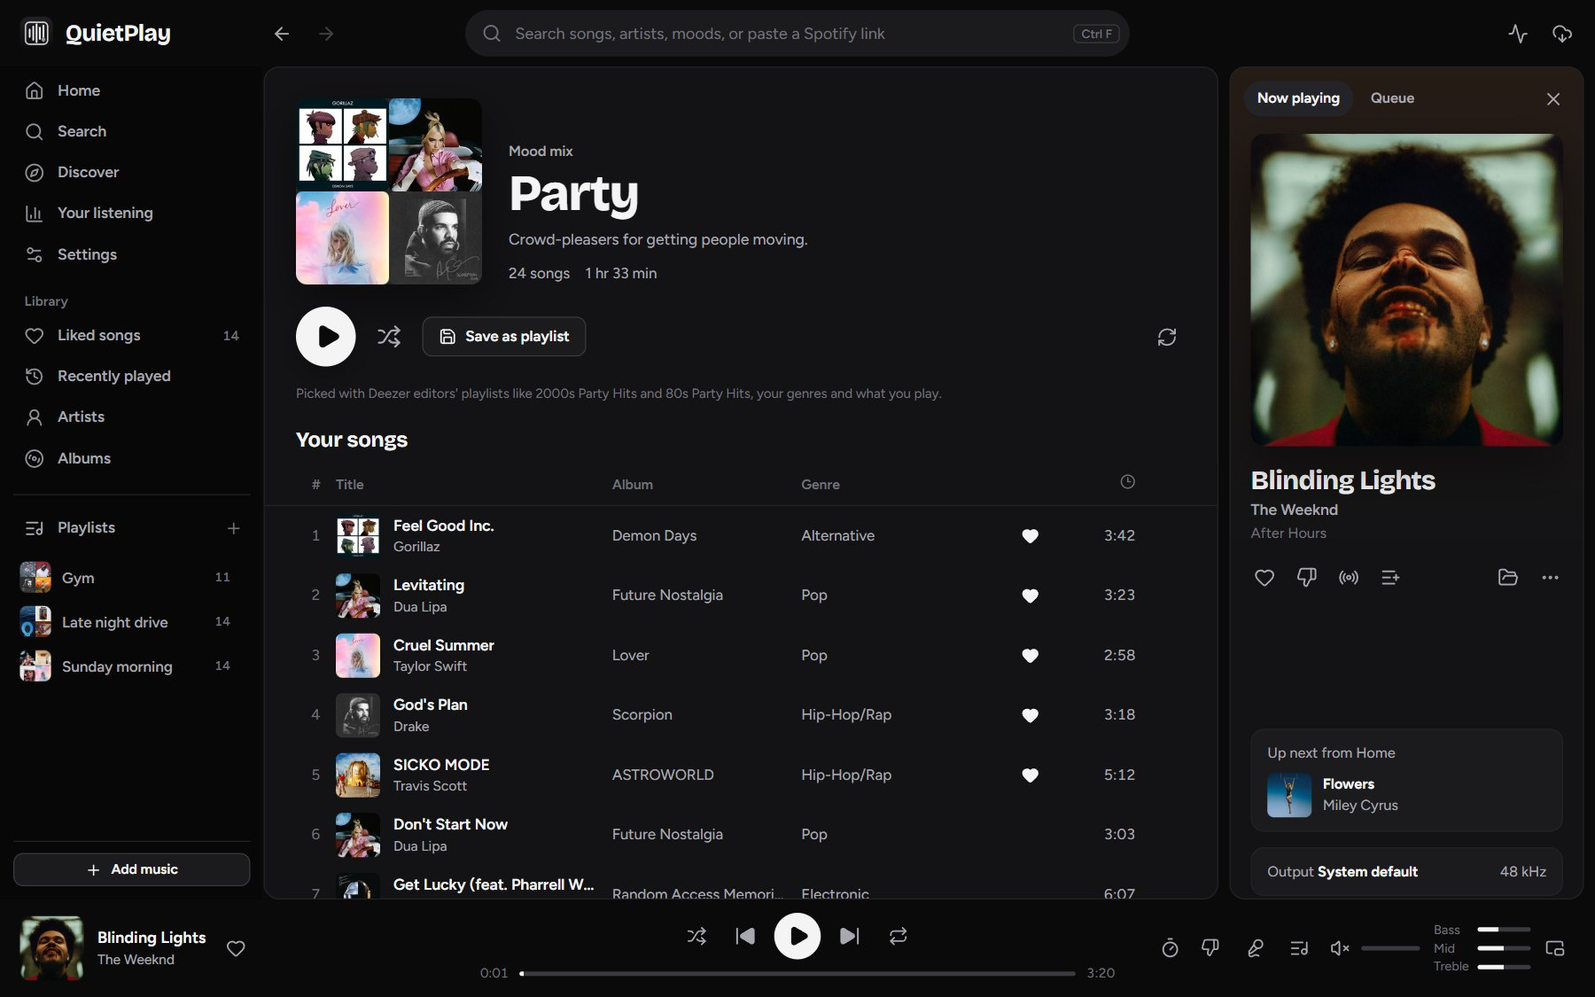
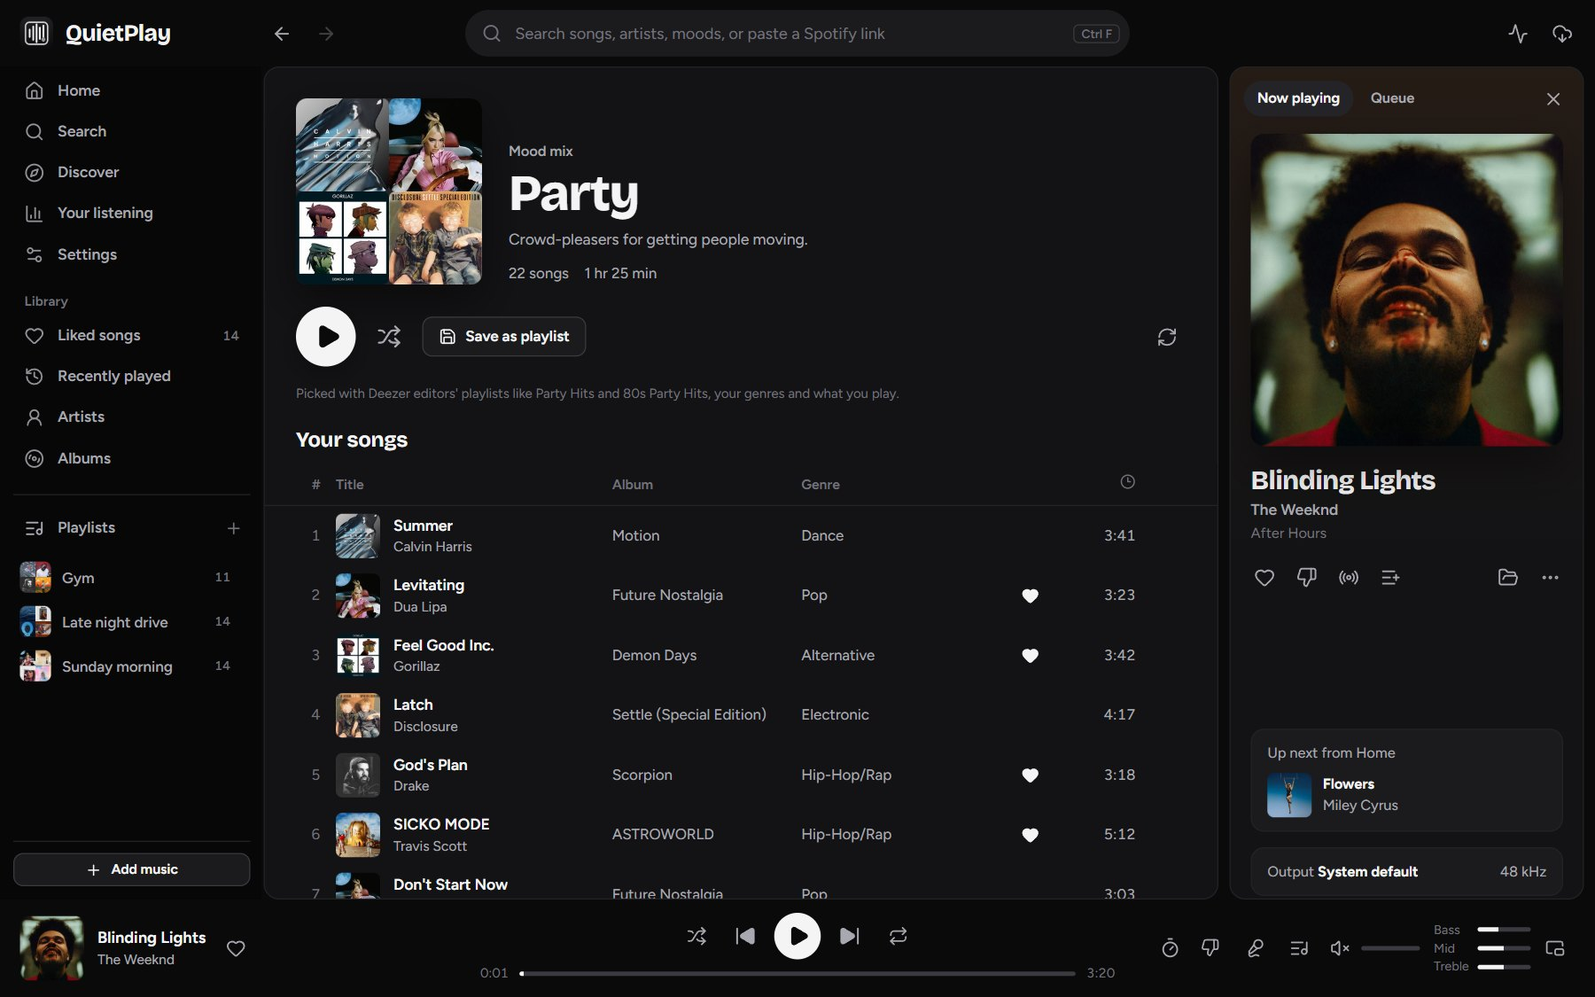
QuietPlay 2.2.22: taste from other apps, more recommendations

diff --git a/USER_GUIDE.md b/USER_GUIDE.md
@@ -2,14 +2,14 @@
 
 [QuietPlay](README.md) | [FAQ](FAQ.md) | [Downloads](https://github.com/cooperwwwwww/QuietPlay-downloads/releases)
 
-This guide is for **QuietPlay 2.2.21** on Windows. Sections marked in development
+This guide is for **QuietPlay 2.2.22** on Windows. Sections marked in development
 describe upcoming features, not the current download.
 
 ## Jump to a Topic
 
 [Install and open](#install-and-open) · [Your data](#your-data-on-this-pc) ·
 [Add music](#add-existing-music) · [Find and play](#find-and-play) ·
-[Discover and radio](#discover-radio-and-autoplay) · [Your listening](#your-listening) ·
+[Discover and radio](#discover-radio-and-autoplay) · [Taste from other apps](#bring-your-taste-from-other-apps) · [Your listening](#your-listening) ·
 [Playlists](#playlists) · [Library care](#library-care) · [Lyrics](#lyrics) ·
 [Search and download](#search-and-download-music) · [Navidrome](#navidrome-add-on) · [Audio and mini player](#audio-and-mini-player) ·
 [OBS](#obs) · [Settings](#settings) · [Shortcuts](#keyboard-shortcuts) · [Updates and help](#updates-and-help)
@@ -64,7 +64,7 @@ Untagged files named like `Artist - Title.mp3` are read as artist and title.
 
 - **Home** starts with **Made for you**: pick **Mixes** (local mixes you can
   play straight away), **New songs** or **Playlists** with the tabs next to the
-  title. Mixes show in two or three rows; use the left/right arrows to see more.
+  title. Each tab shows three rows that fill the window; use the left/right arrows to see more.
   QuietPlay remembers the tab.
   Click a recommended song to preview it, or use its download button. Open a
   recommended playlist to see every song, preview, download a song, or
@@ -153,6 +153,33 @@ normally refresh after six hours. Existing owned-song, dislike and dismissed
 recommendation filters still apply. Turn off **Suggest new songs** in
 Settings → Search & Downloads to disable online recommendations.
 
+### Bring Your Taste From Other Apps
+
+From **2.2.22**, QuietPlay can learn what you like in another music app, the way Spotify's
+"Import your music" does. It only shapes recommendations: **nothing is downloaded, no playlists are
+created, and QuietPlay never asks for your passwords.**
+
+1. Open **Settings → Playback → Listening and recommendations** and choose **Choose an app**.
+2. Pick the app you listen with, then follow the steps QuietPlay shows for it:
+
+| App | Quickest | Everything |
+| --- | --- | --- |
+| Spotify | Paste a public playlist link (**Share → Copy link to playlist**) | Export with [exportify.net](https://exportify.net) (**Export All**), or **Account → Privacy settings → Download your data** with **Extended streaming history** |
+| Apple Music | Paste a playlist link (**Share → Copy Link**) | **File → Library → Export Library…** (Mac Music app or iTunes on Windows), or your data from [privacy.apple.com](https://privacy.apple.com) |
+| YouTube Music | | [Google Takeout](https://takeout.google.com): YouTube and YouTube Music, history as JSON |
+| Deezer | Paste a public playlist link | A TuneMyMusic export file |
+| Tidal, Amazon Music, SoundCloud | | [TuneMyMusic](https://www.tunemymusic.com): your app as the source, **Export to file** |
+| Last.fm (and apps that scrobble to it) | | Your scrobbles as CSV from [lastfm.ghan.nl/export](https://lastfm.ghan.nl/export/) |
+| Something else | Type artists, or songs as `Artist - Title` | Any .csv, .txt, .m3u or .xspf playlist |
+
+3. QuietPlay shows how many artists, songs and plays it found and your top artists. Choose
+   **Add to my taste**.
+
+Liked songs and songs you played often count more. Your imported artists join the artists you play
+in QuietPlay, so you'll see them in **Because you play…** playlists and in new songs from related
+artists. Each source is listed in Settings with **Remove**. Export files are read on your PC; only
+the names of the songs and artists are kept.
+
 ## Your Listening
 
 **Your listening** in the sidebar shows listening time, plays, how many songs
@@ -210,7 +237,9 @@ online. The next song's lyrics are fetched ahead of time.
 
 Online search is optional (Settings → Search & Downloads). Online results show
 a **Download** button; downloads go to `Music\QuietPlay Downloads` and are added
-to your library and, if you choose, a playlist. The download panel (cloud icon
+to your library and, if you choose, a playlist. From 2.2.22, songs you already have show
+**In your library** instead (click to play) and are never downloaded again, also not as part of
+**Download all** or a recommended playlist. The download panel (cloud icon
 at the top) shows progress and lets you cancel.
 
 ### Download a Complete Playlist or Album
@@ -309,7 +338,7 @@ Showing a song title doesn't grant permission to broadcast the recording.
 ### Overlay Customization (Unreleased)
 
 The following controls are implemented in the development build and are **not
-in the current 2.2.21 installer**. The existing download still has the basic
+in the current 2.2.22 installer**. The existing download still has the basic
 overlay options in Streaming settings.
 
 Open **Settings → Streaming → Overlay appearance** in the upcoming build:
@@ -390,18 +419,18 @@ Backups are retained for the two most recent update transactions.
 The release signature is separate from Windows Authenticode; QuietPlay is still
 not Windows code-signed, and Windows security warnings and blocks still apply.
 
-### Updating to 2.2.21
+### Updating to 2.2.22
 
-Use the update screen above. From **2.2.16 to 2.2.20** the download is about **8.0 MB**,
-from **2.2.7 to 2.2.15** about **23.2 MB**, and from **2.2.2, 2.2.3 or 2.2.4** about **40.2 MB**.
+Use the update screen above. From **2.2.16 to 2.2.21** the download is about **8.1 MB**,
+from **2.2.7 to 2.2.15** about **23.3 MB**, and from **2.2.2, 2.2.3 or 2.2.4** about **40.2 MB**.
 A bar shows the check, the download, verification and, in the updater window, each file as it is installed. It reuses the unchanged runtime
 files, so no full installer is needed for a healthy installation.
 
 ### First Upgrade From an Older Version
 
-- **2.2.0:** download the official **2.2.21 Windows Setup** and run it over the
+- **2.2.0:** download the official **2.2.22 Windows Setup** and run it over the
   existing installation once. Do not uninstall first. This enables file updates.
-- **2.2.1:** download **QuietPlayUpdater.exe** from the official **2.2.21 release**,
+- **2.2.1:** download **QuietPlayUpdater.exe** from the official **2.2.22 release**,
   run it, choose **Download changed files**, then **Update and restart**. This
   transfers about 40 MB instead of the full setup. Full setup is also available.
 

diff --git a/README.md b/README.md
@@ -8,9 +8,9 @@
 
 No account. No subscription. Nothing you play leaves your computer.
 
-<a id="get-quietplay"></a><a href="https://github.com/cooperwwwwww/QuietPlay-downloads/releases/download/v2.2.21/QuietPlay-2.2.21-Windows-Setup.exe"><img src="assets/download-windows.svg" alt="Download QuietPlay 2.2.21 for Windows" width="340"></a>
+<a id="get-quietplay"></a><a href="https://github.com/cooperwwwwww/QuietPlay-downloads/releases/download/v2.2.22/QuietPlay-2.2.22-Windows-Setup.exe"><img src="assets/download-windows.svg" alt="Download QuietPlay 2.2.22 for Windows" width="340"></a>
 
-Version 2.2.21 · [What's new](#new-in-2221) · [Help](FAQ.md) · [Report a problem](https://github.com/cooperwwwwww/QuietPlay-downloads/issues/new?template=bug_report.yml)
+Version 2.2.22 · [What's new](#new-in-2222) · [Help](FAQ.md) · [Report a problem](https://github.com/cooperwwwwww/QuietPlay-downloads/issues/new?template=bug_report.yml)
 
 </div>
 
@@ -18,7 +18,7 @@ Version 2.2.21 · [What's new](#new-in-2221) · [Help](FAQ.md) · [Report a prob
 
 <a id="install-quietplay"></a>
 
-1. **Click the button above.** Your browser downloads `QuietPlay-2.2.21-Windows-Setup.exe`.
+1. **Click the button above.** Your browser downloads `QuietPlay-2.2.22-Windows-Setup.exe`.
 2. **Open the file.** If Windows says *"Windows protected your PC"*, choose **More info**, check the
    file name, then **Run anyway**. This shows up because QuietPlay is new and not code-signed yet;
    [why this happens](#windows-security-notice).
@@ -38,7 +38,7 @@ the app. One click, and your music, playlists and settings stay in place.
 | **Your listening** | **Search, moods and quick picks** |
 | ![Your listening: time, top songs and top artists](assets/quietplay-stats.jpg) | ![Search page with moods and quick picks](assets/quietplay-search.jpg) |
 
-*Screenshots of QuietPlay 2.2.21 with a demo library of well-known songs.*
+*Screenshots of QuietPlay 2.2.22 with a demo library of well-known songs.*
 
 ## What it does
 
@@ -49,7 +49,8 @@ the app. One click, and your music, playlists and settings stay in place.
 - **Moods:** say how you feel ("need energy for the gym") and get a mix from your own songs.
 - **Find new music:** recommended songs and playlists you can preview, then save and download
   in one click.
-- **New here?** A short, skippable quiz gives you songs and playlists to start with.
+- **New here?** A short, skippable quiz gives you songs and playlists to start with, and you can
+  bring your taste over from Spotify, Apple Music, YouTube Music and other apps.
 - **Your listening:** time listened, top songs, artists and genres, streaks and favorite hours.
 - **Looks the way you like:** dark, light and colorful themes, plus a live visualizer.
 - **Plays where Windows plays:** follows your headphones and speakers, and asks before switching
@@ -58,10 +59,22 @@ the app. One click, and your music, playlists and settings stay in place.
 
 Only download music you have permission to save.
 
-## New in 2.2.21
+## New in 2.2.22
 
-- **Made for you shows more at a glance:** the Mixes tab lays your mixes out in two or three rows
-  instead of one long row.
+- **Bring your taste from other apps:** in **Settings → Playback**, choose Spotify, Apple Music,
+  YouTube Music, Deezer, Tidal, Amazon Music, SoundCloud or Last.fm, then paste a public playlist link
+  or choose the app's data export. QuietPlay learns which artists and songs you like there;
+  nothing is downloaded. [How to](USER_GUIDE.md#bring-your-taste-from-other-apps)
+- **About twice as many recommendations,** and up to eight "Because you play" playlists plus a new
+  "Fresh faces" playlist of artists you've never played.
+- **Made for you fills the whole row** in three rows at every window size.
+- **No duplicate downloads:** songs already in your library say **In your library** in online
+  search and are never downloaded again.
+- **Small windows:** the queue opens over the page instead of squeezing it.
+
+### New in 2.2.21
+
+- **Made for you shows more at a glance:** mixes in rows instead of one long row.
 
 ### New in 2.2.20
 
@@ -81,14 +94,14 @@ Only download music you have permission to save.
 
 ## Windows security notice
 
-QuietPlay 2.2.21 is not Windows code-signed yet, so Microsoft Defender SmartScreen may show
+QuietPlay 2.2.22 is not Windows code-signed yet, so Microsoft Defender SmartScreen may show
 **Windows protected your PC**. That warning means Windows doesn't recognize the app yet; it doesn't
 say the file is harmful.
 
 ![How to check the Windows warning: More info, check the file name, then Run anyway](assets/windows-security-guide.svg)
 
-1. Make sure you downloaded `QuietPlay-2.2.21-Windows-Setup.exe` from
-   [the official release](https://github.com/cooperwwwwww/QuietPlay-downloads/releases/tag/v2.2.21). You can
+1. Make sure you downloaded `QuietPlay-2.2.22-Windows-Setup.exe` from
+   [the official release](https://github.com/cooperwwwwww/QuietPlay-downloads/releases/tag/v2.2.22). You can
    [compare its checksum](FAQ.md#check-the-downloaded-file).
 2. Choose **More info**, check the file name, then **Run anyway** only if Windows offers it.
 3. If there is no **Run anyway**, or you see Smart App Control or a malware warning, stop and
@@ -103,7 +116,7 @@ replace the app files that changed (usually a few megabytes), are signed and che
 are applied, and restore the previous version if anything goes wrong.
 
 On a version older than 2.2.16? Open **Settings → Updates → Check for updates**. Version 2.2.1 can
-run [QuietPlayUpdater.exe](https://github.com/cooperwwwwww/QuietPlay-downloads/releases/download/v2.2.21/QuietPlayUpdater.exe); version
+run [QuietPlayUpdater.exe](https://github.com/cooperwwwwww/QuietPlay-downloads/releases/download/v2.2.22/QuietPlayUpdater.exe); version
 2.2.0 needs the installer once. [All versions](https://github.com/cooperwwwwww/QuietPlay-downloads/releases)
 
 ## Requirements
@@ -116,7 +129,8 @@ Mac and Linux: see the [platform guide](PLATFORMS.md).
 
 Your library, playlists, history and settings stay on your PC (`%APPDATA%\QuietPlay`). Mixes,
 radio and stats are worked out on your PC. Online features send only what they need (for example
-a song name to find its lyrics) and each can be turned off in Settings.
+a song name to find its lyrics) and each can be turned off in Settings. Export files you use to
+bring your taste from other apps are read on your PC; QuietPlay never asks for your passwords.
 
 ## Help
 

diff --git a/RELEASE_NOTES.md b/RELEASE_NOTES.md
@@ -1,3 +1,21 @@
+# QuietPlay 2.2.22
+
+QuietPlay 2.2.22 recommends a lot more, and can learn your taste from the apps you already use.
+
+- **Bring your taste from other apps:** in **Settings → Playback → Listening and recommendations**, choose Spotify, Apple Music, YouTube Music, Deezer, Tidal, Amazon Music, SoundCloud or Last.fm. Then paste a public playlist link (Spotify, Apple Music, Deezer) or choose the app's data export. QuietPlay learns which artists and songs you like there and recommends more like them. Nothing is downloaded and no playlists are created, and you can remove a source at any time. QuietPlay never asks for your passwords. [Step-by-step guide](https://github.com/cooperwwwwww/QuietPlay-downloads/blob/main/USER_GUIDE.md#bring-your-taste-from-other-apps)
+- **About twice as many recommendations:** recommendations start from up to 24 of your artists (was 12) and explore up to 56 related artists (was 28). Made for you can have up to eight "Because you play" playlists, plus a new **Fresh faces** playlist of artists you've never played.
+- **Made for you fills the whole row** in three rows at every window size, from small windows to full screen on large monitors.
+- **No duplicate downloads:** songs already in your library say **In your library** in online search (click to play), **Download all** skips them, and a song you already have is never downloaded again.
+- **Small windows:** the Now playing / Queue panel opens over the page instead of squeezing it.
+
+**Already on 2.2.16 to 2.2.21:** the **Update now** notice above the player does it in one click, or open **Settings → Updates → Check for updates** (about **8.1 MB**). **On 2.2.7 to 2.2.15:** the same steps (about **23.3 MB**). **On 2.2.2, 2.2.3 or 2.2.4:** the same steps, with **Download changed files** (about **40.3 MB**). Your music, library, playlists and settings stay in place.
+
+**On 2.2.1:** run `QuietPlayUpdater.exe` from this release for a direct changed-file upgrade of about **40.3 MB**. **On 2.2.0:** install `QuietPlay-2.2.22-Windows-Setup.exe` once over the existing app to enable file updates. Full setup is available for new PCs and repairs.
+
+Windows 10/11, 64-bit. Official release manifests are signed and every changed file's SHA-256 is checked. QuietPlay is still not Windows Authenticode-signed, so Windows may show a SmartScreen warning; see the [Windows security guide](https://github.com/cooperwwwwww/QuietPlay-downloads/blob/main/FAQ.md#windows-protected-your-pc). Verify downloads with `SHA256SUMS.txt`. Only download music you have permission to save. The OBS appearance editor remains unreleased.
+
+---
+
 # QuietPlay 2.2.21
 
 QuietPlay 2.2.21 shows more of Made for you at a glance.

diff --git a/FAQ.md b/FAQ.md
@@ -36,15 +36,15 @@ not turn off Windows security. Code signing is planned.
 ## Windows Protected Your PC
 
 This is usually a **Microsoft Defender SmartScreen** reputation warning.
-QuietPlay 2.2.21 is not Windows code-signed. The warning is a reason to inspect
+QuietPlay 2.2.22 is not Windows code-signed. The warning is a reason to inspect
 the file; it is not proof that the file is safe or malicious.
 
-![Illustrated two-step Windows warning guide for the QuietPlay 2.2.21 installer](assets/windows-security-guide.svg)
+![Illustrated two-step Windows warning guide for the QuietPlay 2.2.22 installer](assets/windows-security-guide.svg)
 
 ### If You See More Info
 
-1. Confirm you intentionally downloaded **QuietPlay-2.2.21-Windows-Setup.exe**
-   from [the official 2.2.21 release](https://github.com/cooperwwwwww/QuietPlay-downloads/releases/tag/v2.2.21).
+1. Confirm you intentionally downloaded **QuietPlay-2.2.22-Windows-Setup.exe**
+   from [the official 2.2.22 release](https://github.com/cooperwwwwww/QuietPlay-downloads/releases/tag/v2.2.22).
    Compare its SHA-256 with **SHA256SUMS.txt** on that release if you want to
    verify the file's identity. A checksum is not a safety guarantee.
 2. Select **More info**, then check the app filename and publisher. This build
@@ -175,7 +175,7 @@ Showing a song title does not grant permission to broadcast the recording.
 ## Can I Customize the OBS Overlay?
 
 The current release has basic overlay options in Streaming settings. A larger
-appearance editor is implemented in development, **not in the 2.2.21 download**:
+appearance editor is implemented in development, **not in the 2.2.22 download**:
 six color pickers, transparency, fonts, artwork placement and sizes, borders,
 visible details, presets, reset and a live preview. It saves locally and does
 not change the audio route or your OBS scene.
@@ -214,8 +214,8 @@ restart** and approve. The official updater downloads a matching changed-file
 package, verifies its signed manifest and hashes, backs up the old files and
 checks startup. Failed or interrupted updates restore the previous app.
 
-**2.2.0** needs one manual 2.2.21 setup to gain this updater. **2.2.1** can instead
-run `QuietPlayUpdater.exe` from the official 2.2.21 release to download about
+**2.2.0** needs one manual 2.2.22 setup to gain this updater. **2.2.1** can instead
+run `QuietPlayUpdater.exe` from the official 2.2.22 release to download about
 40 MB of changed files. No uninstall is needed. New PCs and damaged or unsupported
 installations can use the full setup. Windows security checks remain enabled.
 

diff --git a/ROADMAP.md b/ROADMAP.md
@@ -71,7 +71,7 @@ for listener ideas. Versioned release notes are the source of truth for what
 has actually shipped.
 
 
-Version **2.2.21** shows mixes in a grid. Version **2.2.20** added one-click updates and a faster app. Version **2.2.19** added a taste quiz and starter picks for new listeners. Version **2.2.18** polished search and added mood playlists. Version **2.2.17** added mood mixes and a new search. Version **2.2.16** fixed update progress bars and artist names. Version **2.2.15** fixed Next stopping with "End of the list" offline. Version **2.2.14** made QuietPlay work properly offline and removed audio crackling. Version **2.2.13** gave Navidrome its own Settings tab and automatic reconnect. Version **2.2.12** added the optional Navidrome add-on. Version **2.2.11** found more cover art. Version **2.2.9** added Retry for failed downloads and a collapsible Made for you. Version **2.2.8** follows the sound device your PC is using. Version **2.2.7** retried failed downloads on other sources and keeps working
+Version **2.2.22** learns your taste from other apps and recommends about twice as much. Version **2.2.21** showed mixes in a grid. Version **2.2.20** added one-click updates and a faster app. Version **2.2.19** added a taste quiz and starter picks for new listeners. Version **2.2.18** polished search and added mood playlists. Version **2.2.17** added mood mixes and a new search. Version **2.2.16** fixed update progress bars and artist names. Version **2.2.15** fixed Next stopping with "End of the list" offline. Version **2.2.14** made QuietPlay work properly offline and removed audio crackling. Version **2.2.13** gave Navidrome its own Settings tab and automatic reconnect. Version **2.2.12** added the optional Navidrome add-on. Version **2.2.11** found more cover art. Version **2.2.9** added Retry for failed downloads and a collapsible Made for you. Version **2.2.8** follows the sound device your PC is using. Version **2.2.7** retried failed downloads on other sources and keeps working
 when Spotify is unavailable. Version **2.2.4** brought your mixes, new songs and full 50–60-song playlists
 together in one Made for you box on Home, keeps recommendations loaded between
 tabs, fixes recommended playlist downloads and redesigns Downloads and updates.

diff --git a/CHANGELOG.md b/CHANGELOG.md
@@ -2,7 +2,7 @@
 
 ## Unreleased - OBS Customization
 
-These features are not included in 2.2.21.
+These features are not included in 2.2.22.
 
 ### OBS Overlay Appearance
 
@@ -17,6 +17,22 @@ These features are not included in 2.2.21.
 - A sandboxed preview using the actual OBS renderer, even when the overlay
   server is off. Small browser sources scale the complete card instead of
   clipping its text. Existing saved colors and visibility choices are preserved.
+
+## 2.2.22 - Your Taste From Other Apps
+
+Released October 27, 2026 for Windows 10/11 (64-bit).
+
+- Settings → Playback → Listening and recommendations can learn your taste from Spotify, Apple
+  Music, YouTube Music, Deezer, Tidal, Amazon Music, SoundCloud and Last.fm (public playlist links
+  or data exports). It only shapes recommendations; nothing is downloaded. Sources can be removed.
+- About twice as many recommendations: up to 24 seed artists (was 12) and 56 related artists
+  (was 28), up to eight "Because you play" playlists and a new Fresh faces playlist.
+- Made for you fills the whole row in three rows at every window size.
+- Songs already in the library show "In your library" in online search and are never downloaded
+  again; owned songs are left out of playlist downloads and added to the playlist instead.
+- In windows narrower than 1100 px the Now playing / Queue panel opens over the page.
+- Signed changed-file packages support direct upgrades from 2.2.1 to 2.2.4,
+  2.2.7 to 2.2.9, and 2.2.11 to 2.2.21.
 
 ## 2.2.21 - Mixes in a Grid
 

diff --git a/PLATFORMS.md b/PLATFORMS.md
@@ -2,12 +2,12 @@
 
 [QuietPlay](README.md) | [Downloads](README.md#get-quietplay) | [User guide](USER_GUIDE.md)
 
-**QuietPlay 2.2.21 is a Windows app.** Mac, Linux and Chromebook users can keep
+**QuietPlay 2.2.22 is a Windows app.** Mac, Linux and Chromebook users can keep
 using the experimental **1.54.1 Beta** packages from its
 [release page](https://github.com/cooperwwwwww/QuietPlay-downloads/releases/tag/v1.54.1-development).
 Those packages have the previous interface and are not updated to 2.x.
 
-## Windows (QuietPlay 2.2.21)
+## Windows (QuietPlay 2.2.22)
 
 Windows 10 or 11, Intel/AMD 64-bit, with the Microsoft Edge WebView2 Runtime
 (included with Windows 11; setup installs it when missing). Use
@@ -72,7 +72,7 @@ hardware verification. [Google's file-sharing guide](https://support.google.com/
 
 ## Feature Differences
 
-| Feature | Windows (2.2.21) | Experimental Mac / Linux (1.54.1 Beta) |
+| Feature | Windows (2.2.22) | Experimental Mac / Linux (1.54.1 Beta) |
 | --- | --- | --- |
 | Local music, playlists, lyrics, live EQ and real-audio visualizer | Available | Included in native build targets |
 | In-app search and optional spotDL downloads | Bundled | Native bundled companion; provider availability can vary |

diff --git a/OPTIONAL_DRIVERS.md b/OPTIONAL_DRIVERS.md
@@ -2,9 +2,9 @@
 
 [QuietPlay downloads](README.md#get-quietplay) | [User guide](USER_GUIDE.md) | [FAQ](FAQ.md)
 
-## Install QuietPlay 2.2.21
+## Install QuietPlay 2.2.22
 
-Download **QuietPlay-2.2.21-Windows-Setup.exe** from the
+Download **QuietPlay-2.2.22-Windows-Setup.exe** from the
 [official release](https://github.com/cooperwwwwww/QuietPlay-downloads/releases/latest)
 and run it, over the existing app if you already have one. Version 2.2.1 and
 later can also update from **Settings → Updates** without the full installer. Setup includes QuietPlay, its Python runtime, playback
